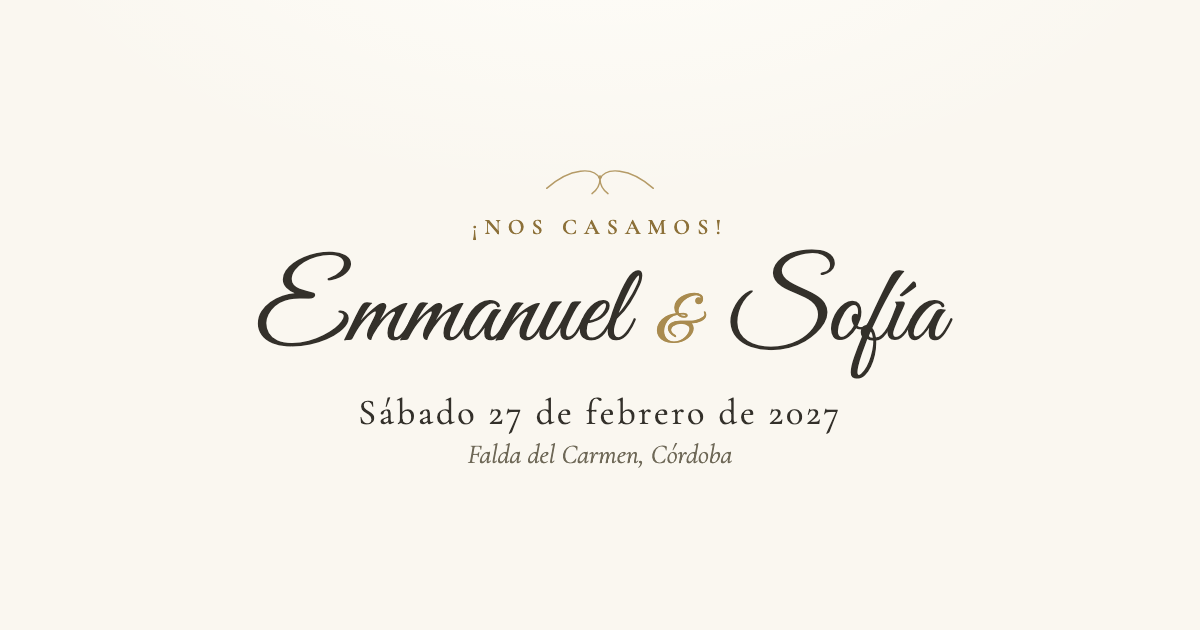
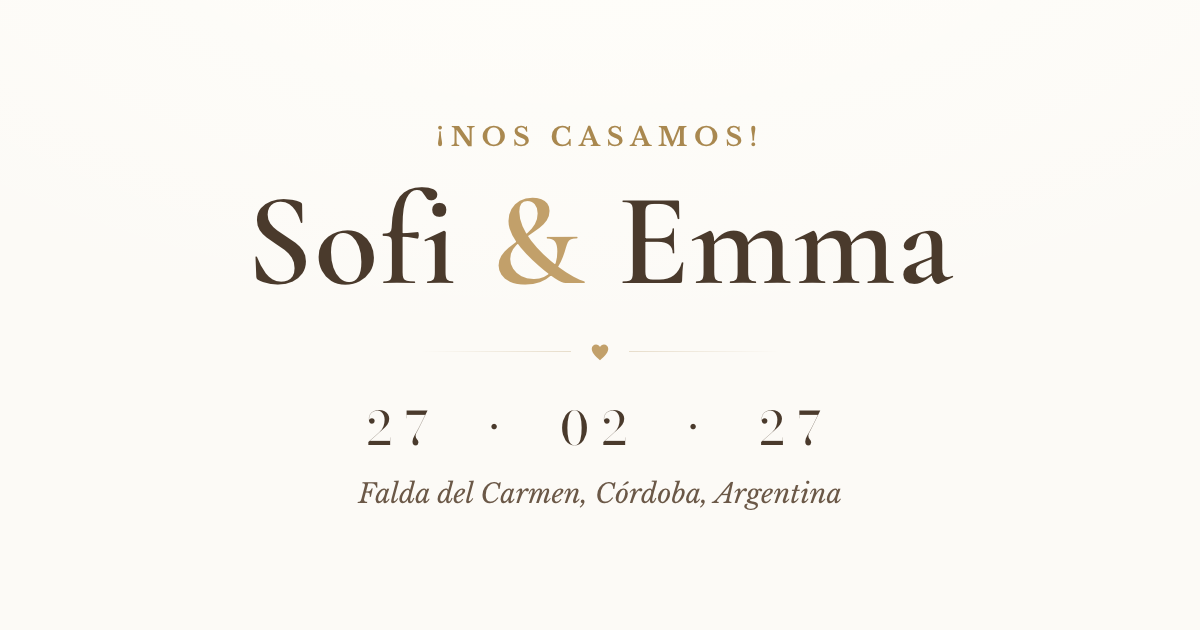
Actualizar imagen de vista previa (og.png) al estilo v2
- og.png regenerada con Cormorant + Bodoni y paleta chocolate/dorado
- og:image con ?v=2 para refrescar la cache de WhatsApp

diff --git a/index.html b/index.html
@@ -2,7 +2,7 @@
 <meta property="og:type" content="website">
 <meta property="og:title" content="Sofi &amp; Emma — ¡Nos casamos!">
 <meta property="og:description" content="Sábado 27 de febrero de 2027 · Falda del Carmen, Córdoba. Entrá para ver la invitación y confirmar tu asistencia.">
-<meta property="og:image" content="https://emmanuel-santoss.github.io/casamiento/og.png">
+<meta property="og:image" content="https://emmanuel-santoss.github.io/casamiento/og.png?v=2">
 <meta property="og:image:width" content="1200">
 <meta property="og:image:height" content="630">
 <meta property="og:url" content="https://emmanuel-santoss.github.io/casamiento/">
